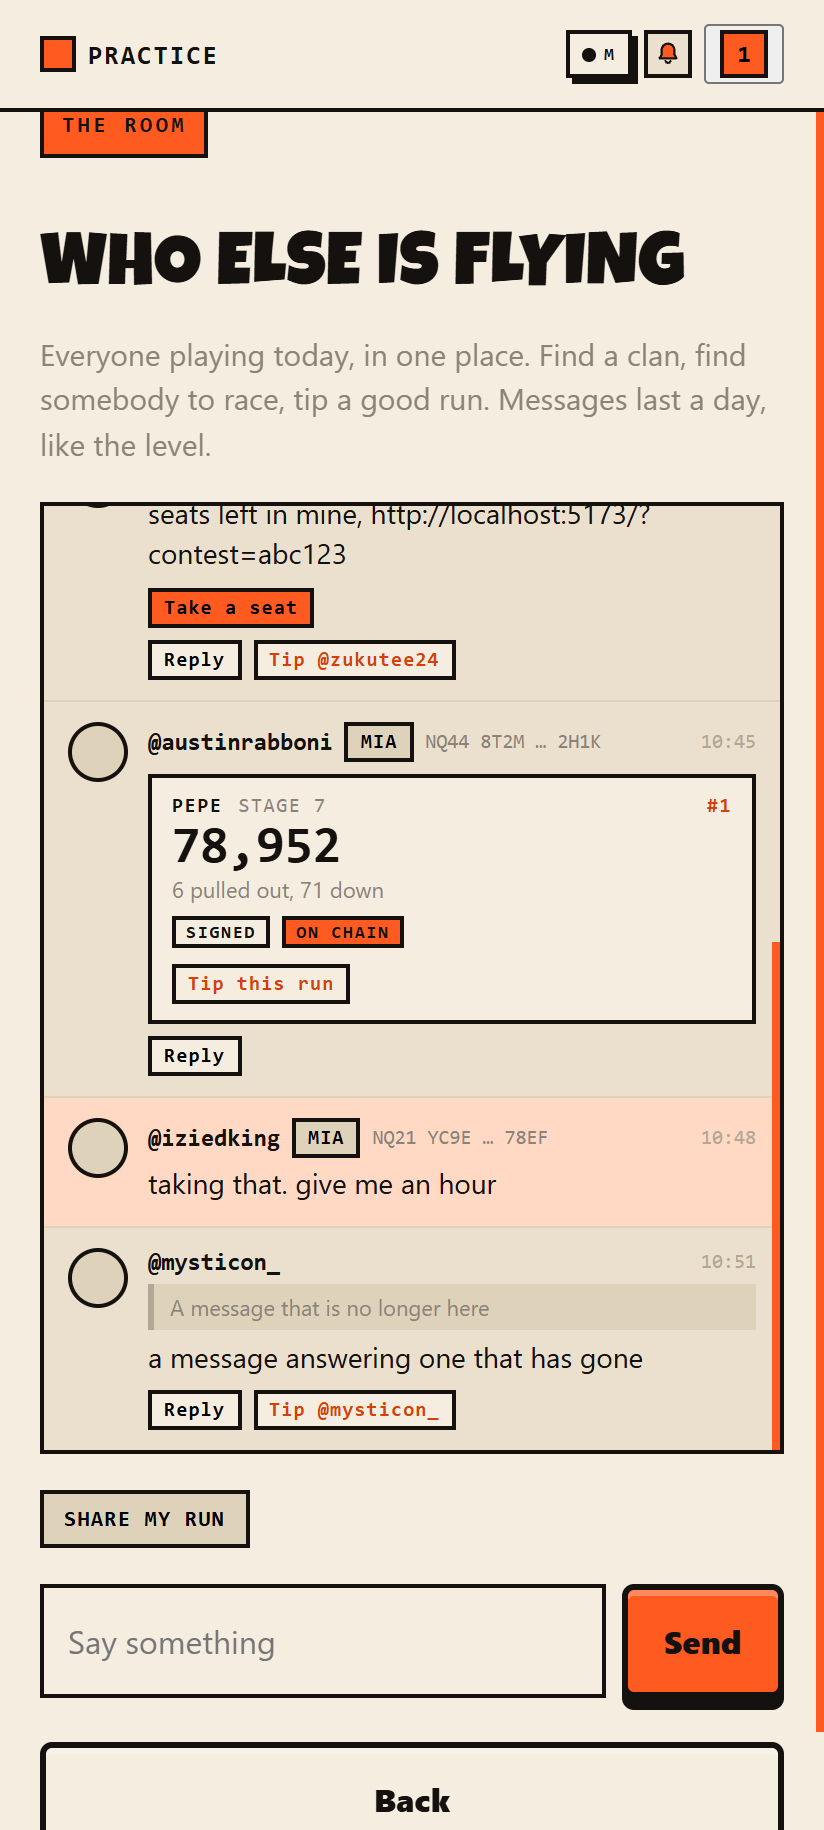
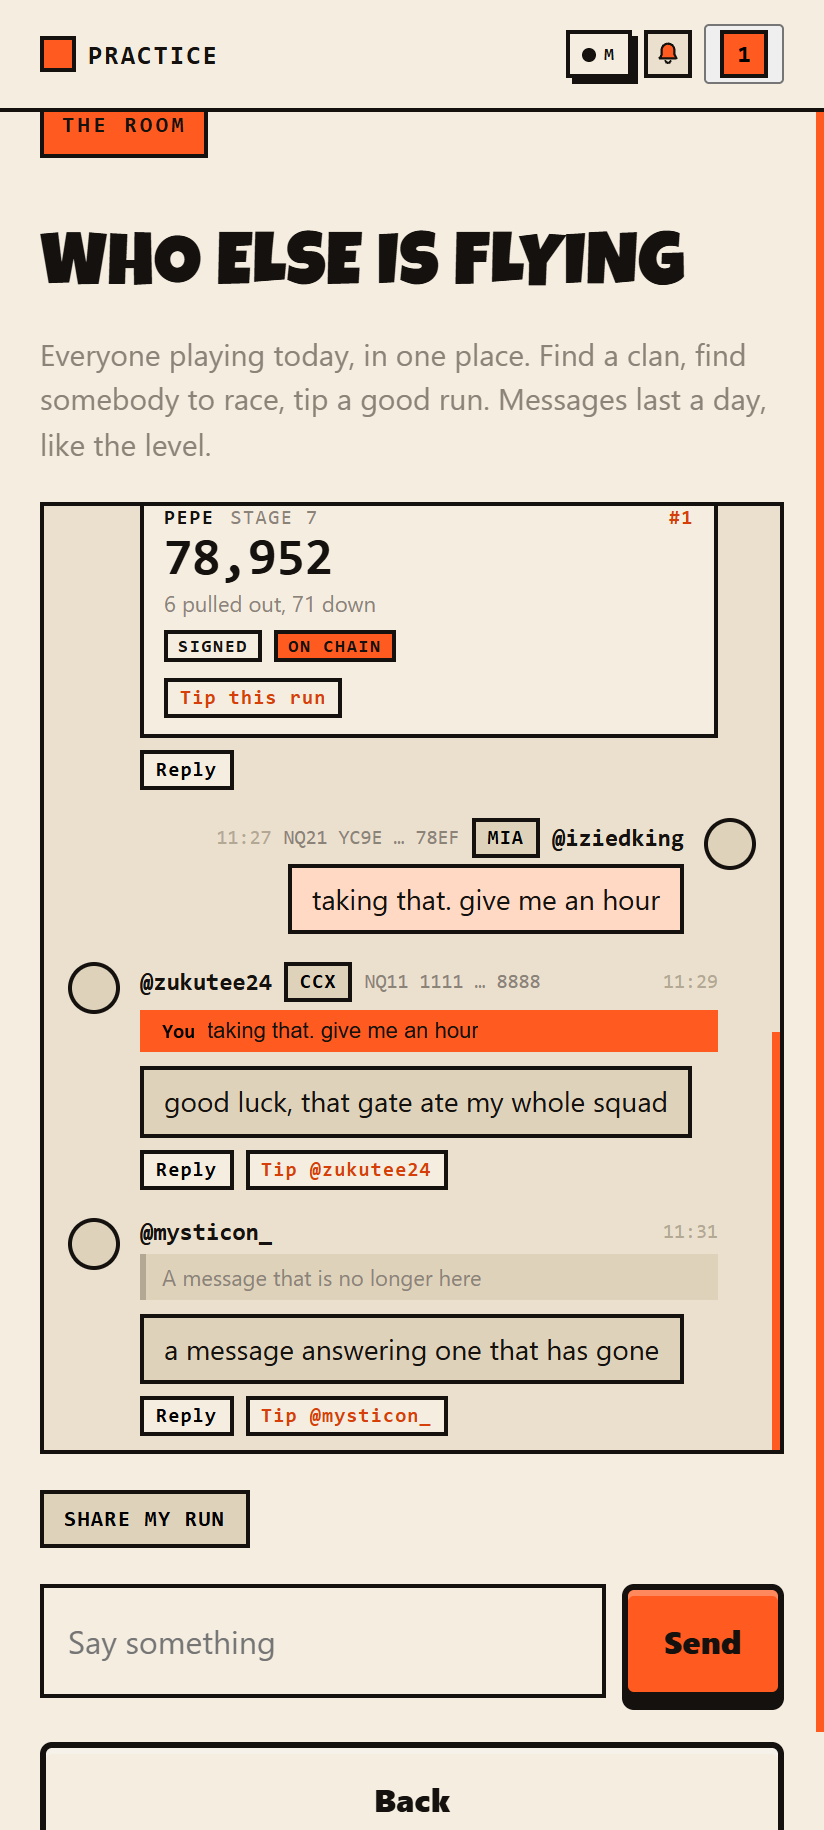
Give the room two sides

diff --git a/src/style.css b/src/style.css
@@ -6636,30 +6636,86 @@ body.is-fullscreen .foot,
   font-size: 13px;
 }
 
+/* Two sides ----------------------------------------------------------------
+   Yours on the right, everybody else's on the left, the way every chat app on
+   the phone this runs on already does it. Which side a message is on is the
+   fastest thing to read on a screen full of them: faster than a name, faster
+   than a colour, and it survives being glanced at while scrolling.
+
+   The dividing rules are gone with it. A row of full-width separators is what
+   a list needs and what a conversation does not: the gap between two bubbles
+   already says where one ends. */
+
 .room__line {
   display: flex;
   gap: 10px;
-  padding: 10px 12px;
-  border-bottom: 1px solid var(--paper-deep);
+  padding: 7px 12px;
   /* Same reason as the track above: without this the row refuses to be
      narrower than the longest quote inside it. */
   min-width: 0;
 }
 
-.room__line:last-child {
-  border-bottom: none;
+.room__line--mine {
+  /* Avatar on the outside, which is the edge the eye follows on this side. */
+  flex-direction: row-reverse;
 }
 
-/* Your own lines, marked without being shouted. A room where half the messages
-   are a different colour reads as two conversations. */
-.room__line--mine {
+/* The bubble stops well short of the far edge, so the side it is on is
+   obvious even when a message is long enough to fill the line. */
+.room__body {
+  max-width: 84%;
+  flex: 0 1 auto;
+}
+
+.room__line--mine .room__body {
+  text-align: right;
+}
+
+/* Everything inside a right-hand bubble that is a row has to turn around with
+   it, or it packs against the wrong edge and reads as a stray. */
+.room__line--mine .room__acts,
+.room__line--mine .room__acts > .room__tiprow {
+  justify-content: flex-end;
+}
+
+/* The name row reverses rather than just aligning right, so the handle stays
+   next to the avatar it belongs to and the time falls to the outside. */
+.room__line--mine .room__who {
+  flex-direction: row-reverse;
+}
+
+.room__line--mine .room__when {
+  /* The auto margin is what pushed it away from the name on the left-hand
+     side. Reversed, the row already puts it at the far edge. */
+  margin-left: 0;
+}
+
+/* Your own, marked with a fill as well as a side. Quiet: a room where half the
+   messages are a loud colour reads as two conversations rather than one. This
+   pair is about whose message it is rather than where it sits, which is why it
+   did not move when the sides were swapped. */
+.room__line--mine .room__said,
+.room__line--mine .room__gone {
   background: var(--accent-pale);
 }
 
+.room__line--theirs .room__said,
+.room__line--theirs .room__gone {
+  background: var(--paper-deep);
+}
+
+.room__said,
+.room__gone {
+  display: inline-block;
+  border: 2px solid var(--ink);
+  padding: 6px 10px;
+  text-align: left;
+}
+
 .room__avatar {
-  width: 30px;
-  height: 30px;
-  flex: 0 0 30px;
+  width: 26px;
+  height: 26px;
+  flex: 0 0 26px;
   border: 2px solid var(--ink);
   border-radius: 50%;
   background: var(--paper-deep);
@@ -6712,7 +6768,7 @@ body.is-fullscreen .foot,
    that scrolls sideways is a room nobody can read. */
 .room__said {
   font-size: 14px;
-  line-height: 1.45;
+  line-height: 1.4;
   margin: 3px 0 0;
   overflow-wrap: anywhere;
 }
@@ -6823,14 +6879,27 @@ body.is-fullscreen .foot,
   margin: 6px 0 0;
 }
 
+/* A card is a printed slip and reads left to right whichever side it is on.
+   Mirroring the numbers with the bubble would make a right-hand run harder to
+   read than a left-hand one, for nothing. That includes the tip on it: the
+   button belongs under the score it is paying for. */
+.room__line--mine .runcard {
+  text-align: left;
+}
+
+.room__line--mine .runcard .room__tiprow,
+.room__line--mine .runcard__marks,
+.room__line--mine .runcard__top {
+  justify-content: flex-start;
+}
+
 /* Grouped lines -------------------------------------------------------------
    A burst from one person reads as one turn. The follow-on lines keep the
    avatar column so the text stays in line, and drop everything else: repeating
    a masked wallet under every sentence turns a conversation into a list. */
 
 .room__line--grouped {
-  padding-top: 2px;
-  border-bottom: none;
+  padding-top: 1px;
 }
 
 .room__avatar--tuck {
@@ -6846,10 +6915,12 @@ body.is-fullscreen .foot,
 }
 
 /* The line a quote sent you to. Held long enough to find, then let go, so a
-   refresh never inherits a highlight from a jump nobody remembers making. */
-.room__line--found {
-  background: var(--accent-pale);
-  box-shadow: inset 3px 0 0 var(--accent);
+   refresh never inherits a highlight from a jump nobody remembers making.
+   On the bubble rather than the row, because a row is mostly empty space now
+   and highlighting empty space points at nothing. */
+.room__line--found .room__said,
+.room__line--found .runcard {
+  box-shadow: 0 0 0 3px var(--accent);
 }
 
 /* What a reply is answering ------------------------------------------------- */
@@ -6872,6 +6943,17 @@ body.is-fullscreen .foot,
   overflow: hidden;
 }
 
+/* An answer to you, which is the one worth a colour.
+   The question in a busy room is never "is this a reply", it is "is this a
+   reply to me", and marking every reply alike answers the wrong one. */
+.room__quote--tome {
+  background: var(--accent);
+}
+
+.room__quote--tome .room__quotetext {
+  color: var(--ink);
+}
+
 .room__quote--gone {
   border-left-color: var(--ink-faint);
   cursor: default;
@@ -6891,6 +6973,13 @@ body.is-fullscreen .foot,
   overflow: hidden;
   text-overflow: ellipsis;
   min-width: 0;
+}
+
+.room__line--mine .room__quote {
+  border-left: none;
+  border-right: 3px solid var(--accent);
+  flex-direction: row-reverse;
+  text-align: right;
 }
 
 .room__acts {

diff --git a/src/ui/chat.ts b/src/ui/chat.ts
@@ -375,7 +375,9 @@ function line(
     {
       class: [
         'room__line',
-        mine ? 'room__line--mine' : '',
+        // Which side of the room this belongs on. Yours is the right, everybody
+        // else's is the left, which is the whole of the layout rule.
+        mine ? 'room__line--mine' : 'room__line--theirs',
         grouped ? 'room__line--grouped' : '',
       ]
         .filter(Boolean)
@@ -488,10 +490,26 @@ function quote(
     }));
   }
 
+  /*
+   * An answer to you is coloured differently from an answer to anybody else.
+   *
+   * That is the distinction worth spending a colour on. Scrolling a busy room,
+   * the question is never "is this a reply" but "is this a reply to me", and
+   * marking every reply the same way answers the question nobody asked.
+   *
+   * It also reads as "You" rather than as your own handle, because a quote of
+   * yourself with your name on it is a sentence about a stranger.
+   */
+  const toMe = parent.pilotId === options.meId;
+
   const node = el(
     'button',
-    { class: 'room__quote', type: 'button', title: 'Go to that message' },
-    el('span', { class: 'room__quotename', text: nameOf(parent.pilotId, options) }),
+    {
+      class: toMe ? 'room__quote room__quote--tome' : 'room__quote',
+      type: 'button',
+      title: 'Go to that message',
+    },
+    el('span', { class: 'room__quotename', text: toMe ? 'You' : nameOf(parent.pilotId, options) }),
     el('span', { class: 'room__quotetext', text: summarise(parent) }),
   );
 

diff --git a/README.md b/README.md
@@ -194,8 +194,12 @@ So there is one shared room, and it is the smallest thing that fixes that.
   nobody can post as somebody else.
 - **A clan tag opens that clan.** This is how somebody with no friends here
   finds one that has a seat.
+- **Your messages sit on the right, everybody else's on the left.** Which side a
+  line is on is the fastest thing to read on a screen full of them.
 - **Reply to anybody**, and the answer carries a quote of what it is answering.
   Tap the quote to go to the original.
+- **An answer to you is coloured differently** from an answer to somebody else,
+  and reads as *You* rather than as your own handle.
 - **Post your run** and it draws as a card with the score, the stage, the rank
   and whether it is signed or on chain.
 - **Tip a run** in one tap, from the card.
@@ -204,13 +208,17 @@ So there is one shared room, and it is the smallest thing that fixes that.
   different conversation.
 
 <div align="center">
-  <img src="docs/shots/room.png" width="300" alt="The room on a phone: a question, an answer quoting it, three lines from one pilot grouped as one turn, and a pasted contest link rendered as a take a seat button">
+  <img src="docs/shots/room.png" width="300" alt="The room on a phone: other pilots' messages on the left with their avatars, a reply quoting the question above it, and three lines from one pilot grouped as a single turn">
   <p><em>One page, everyone playing today. Answer somebody, find a clan, take a bet.</em></p>
 </div>
 
 A burst from one person reads as one turn: the first line carries the avatar,
 name, clan, wallet and time, and the rest are just what they said. Repeating a
 masked wallet under every sentence turns a conversation into a list.
+
+Only one thing here gets a colour of its own, and it is a reply **to you**. The
+question in a busy room is never "is this a reply", it is "is this a reply to
+me", and marking every reply alike answers the wrong one.
 
 You have to have flown a run to speak, which is checked against your profile
 rather than asked of your browser. A room anybody can post into without opening
@@ -247,7 +255,7 @@ is ranking, and a pilot can only ever post their own. Same rule as the name and
 the wallet, for the same reason.
 
 <div align="center">
-  <img src="docs/shots/room-tip.png" width="300" alt="A run posted in the room, drawn as a card reading PEPE stage 7, 78,952, marked signed and on chain, with a tip this run button under it">
+  <img src="docs/shots/room-tip.png" width="300" alt="A run posted in the room, drawn as a card reading PEPE stage 7, 78,952, marked signed and on chain, with a tip this run button under it, and below it a reply quoting the reader's own message in orange marked You">
   <p><em>The card is the message. Every number on it came off the board.</em></p>
 </div>
 
